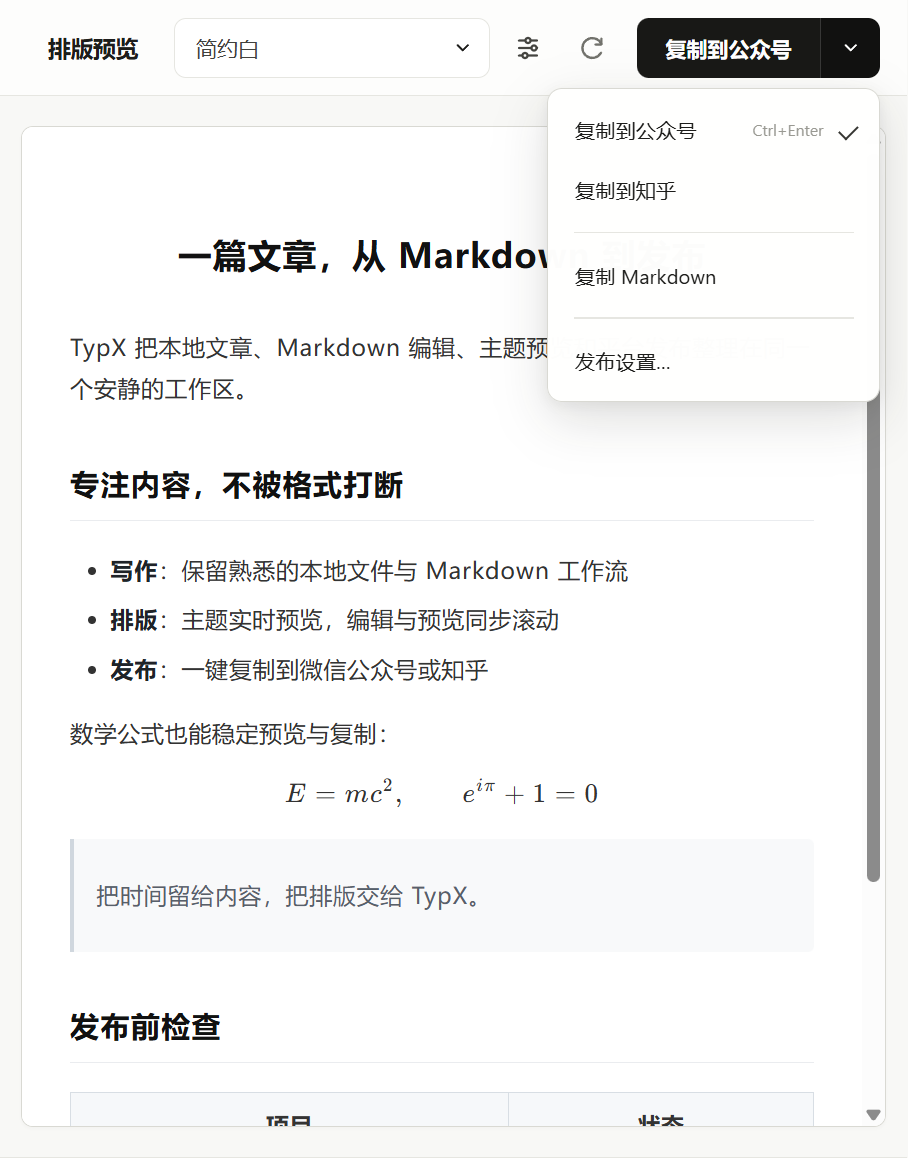
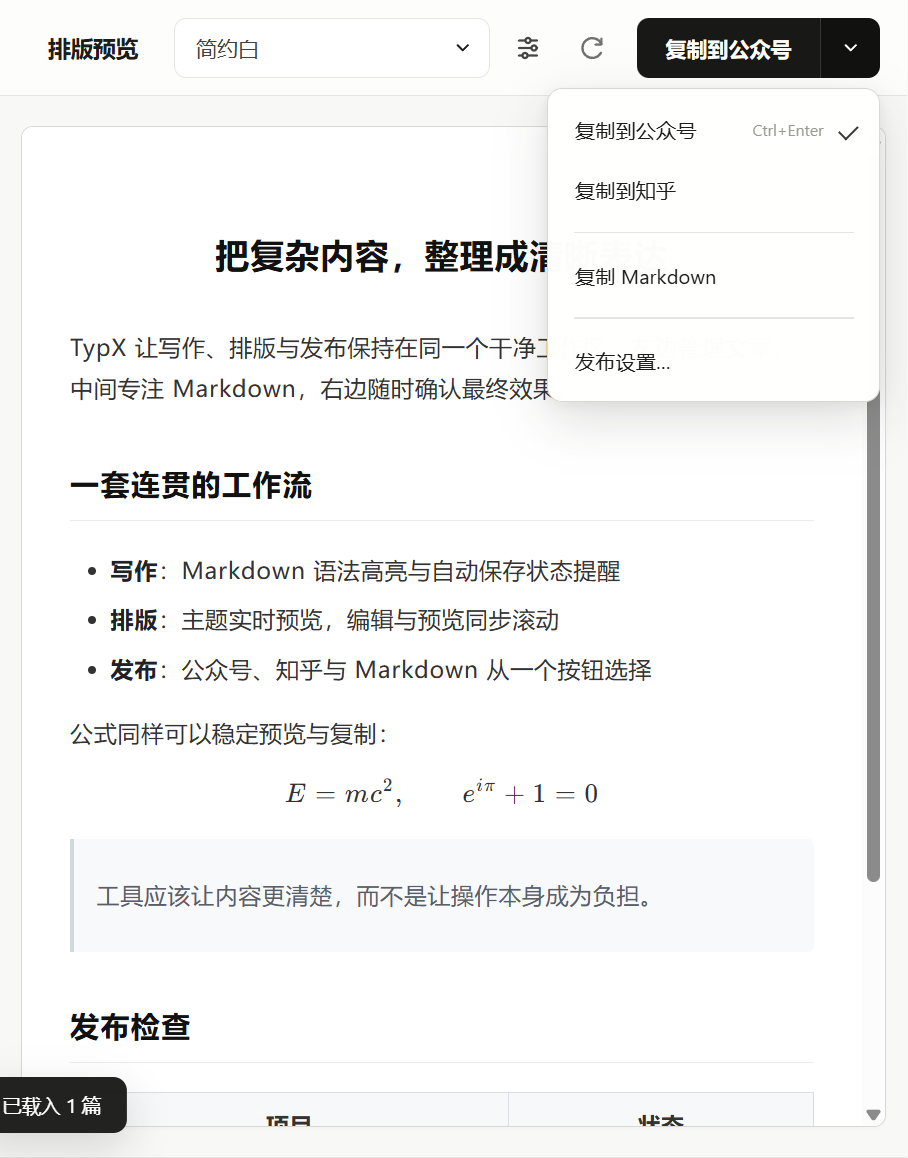
docs: 产品化 README——所见模式与主题展示图、FAQ、动态徽章

diff --git a/README.md b/README.md
@@ -5,7 +5,7 @@
 </p>
 
 <p align="center">
-  <strong>本地 Markdown 写作与微信公众号排版工具</strong><br>
+  <strong>本地优先的 Markdown 写作与公众号排版工具</strong><br>
   <strong>A local-first Markdown editor and publishing tool for WeChat writers</strong>
 </p>
 
@@ -16,19 +16,20 @@
 </p>
 
 <p align="center">
-  <a href="https://github.com/LuckyZ10/TypX/releases/download/v0.8.0/TypX-Setup-0.8.0.exe"><strong>下载 / Download TypX v0.8.0</strong></a>
-  &nbsp;·&nbsp;
-  <a href="https://github.com/LuckyZ10/TypX/releases/latest">Release Notes</a>
-  &nbsp;·&nbsp;
-  <a href="https://github.com/LuckyZ10/TypX/issues">Issues</a>
-</p>
-
-<p align="center">
-  <a href="https://github.com/LuckyZ10/TypX/releases/tag/v0.8.0"><img src="./images/badge-version.svg" alt="TypX v0.8.0"></a>
-  <img src="https://img.shields.io/badge/Windows-Installer-2563EB?style=flat-square" alt="Windows installer">
+  <a href="https://github.com/LuckyZ10/TypX/releases/latest"><img src="https://img.shields.io/github/v/release/LuckyZ10/TypX?style=flat-square&color=2563EB" alt="Latest release"></a>
+  <a href="https://github.com/LuckyZ10/TypX/releases"><img src="https://img.shields.io/github/downloads/LuckyZ10/TypX/total?style=flat-square&color=2EA043" alt="Total downloads"></a>
+  <img src="https://img.shields.io/badge/Windows-10%2F11%20x64-4D4D4D?style=flat-square" alt="Windows 10/11 x64">
   <img src="https://img.shields.io/badge/WeChat-Optimized-07C160?style=flat-square" alt="WeChat optimized">
   <img src="https://img.shields.io/badge/Zhihu-Beta-0084FF?style=flat-square" alt="Zhihu Beta">
   <img src="https://img.shields.io/badge/Nutstore-WebDAV-FF6B35?style=flat-square" alt="Nutstore WebDAV">
+</p>
+
+<p align="center">
+  <a href="https://github.com/LuckyZ10/TypX/releases/download/v0.8.0/TypX-Setup-0.8.0.exe"><strong>⬇ 下载 Windows 安装包 / Download v0.8.0</strong></a>
+  &nbsp;·&nbsp;
+  <a href="https://github.com/LuckyZ10/TypX/releases">历史版本 / Releases</a>
+  &nbsp;·&nbsp;
+  <a href="https://github.com/LuckyZ10/TypX/issues">反馈 / Issues</a>
 </p>
 
 <p align="center">
@@ -47,49 +48,81 @@ TypX 把本地文章管理、Markdown 编辑、所见即所得写作、主题预
 
 [![TypX 主界面：多项目、本地文章、Markdown 编辑和公众号排版预览](./images/overview.png)](https://github.com/LuckyZ10/TypX/releases/latest)
 
-### 核心功能
+### ✍ 所见即所得，写作不打断
 
-| 写作 | 排版 | 发布 |
-| --- | --- | --- |
-| 本地 Markdown 文件夹与多项目工作区 | 编辑、所见、分屏、预览四种视图 | 一键复制到微信公众号 |
-| 接近 Typora 的所见即所得编辑 | 主题、图片、代码、表格与 KaTeX 公式 | 知乎复制 Beta |
-| 表格行列增删、移动与单元格编辑 | 中文公式与长块公式专项优化 | 自动更新与文件路径复制 |
-
-- **所见即所得写作**：标题、粗体、列表、待办、表格和公式可直接在排版后的内容中编辑。
-- **完整表格操作**：网格插入表格，按单元格编辑，并可新增、删除或移动行列。
-- **实时公式编辑**：块公式提供 KaTeX 实时预览，适合中文技术文章和复杂公式。
-- **多项目工作区**：底部标签切换多个文件夹；关闭标签不会移除项目，项目库可随时重新打开。
-- **公众号排版优化**：专门处理中文公式、`\text{}`、相邻行内公式、列表换行、块公式间距与超长公式。
-- **本地优先**：文章保留在自己的磁盘中，也可按项目连接坚果云 WebDAV。
-- **自动更新**：安装一次后，后续版本可在 TypX 内检查、下载并完成更新。
-
-### 发布，不再反复修格式
-
-TypX 会把主题样式内联到文章内容，并针对微信公众号编辑器处理图片和公式，让预览效果尽可能稳定地带到发布页面。微信公众号复制为正式支持功能；知乎复制仍为 Beta，复杂文章发布前请先检查结果。
+标题、粗体、列表、待办、表格和公式，都可以直接在排版后的内容里编辑，接近 Typora 的手感。Markdown 始终是唯一数据源，"编辑 / 所见 / 分屏 / 预览"四种视图随时切换，不丢内容、不改文件。
 
 <p align="center">
-  <img src="./images/publish.png" width="720" alt="TypX 发布菜单与公众号排版预览">
+  <img src="./images/wysiwyg.png" width="720" alt="TypX 所见即所得编辑模式">
 </p>
 
-### 本地优先，也能连接坚果云
+### 🎨 多套排版主题，公式可靠呈现
 
-文章始终保留在自己的本地文件夹中。需要跨设备时，可按项目连接坚果云 WebDAV；首次同步采用安全合并，同名且内容不同的文件会保留冲突副本。
+内置多套为中文阅读打磨的排版主题，复制时主题样式直接内联进内容，粘贴到公众号编辑器即可保持版式。KaTeX 公式针对中文公式、`\text{}`、相邻行内公式与超长公式做了专项优化。
+
+<table align="center">
+  <tr>
+    <td width="50%" align="center"><img src="./images/theme-clean.png" alt="简约白主题"><br><sub><b>简约白</b></sub></td>
+    <td width="50%" align="center"><img src="./images/theme-ink.png" alt="墨黑主题"><br><sub><b>墨黑</b></sub></td>
+  </tr>
+  <tr>
+    <td width="50%" align="center"><img src="./images/theme-geek.png" alt="Geek 主题"><br><sub><b>Geek</b></sub></td>
+    <td width="50%" align="center"><img src="./images/theme-inkpaper.png" alt="纸墨主题"><br><sub><b>纸墨</b></sub></td>
+  </tr>
+</table>
+
+### 📋 表格，像表格一样编辑
+
+网格方式插入表格，直接在单元格内编辑；行列的新增、删除、移动都配有快捷键。表格在编辑时保持完整渲染，不会一碰就散成 Markdown 源码。
+
+### 🚀 一键复制到公众号 / 知乎
+
+TypX 会把主题样式内联到文章内容，并针对微信公众号编辑器处理图片和公式，让预览效果稳定地带到发布页面。微信公众号复制为正式支持功能；知乎复制仍为 Beta，复杂文章发布前请先检查结果。
+
+<p align="center">
+  <img src="./images/publish.png" width="720" alt="TypX 发布菜单：复制到公众号、知乎与 Markdown">
+</p>
+
+### 📁 本地优先，多项目工作区
+
+文章始终保留在自己的磁盘上，底部标签可同时打开多个项目文件夹，关闭标签不会移除项目，项目库可随时重新打开。需要跨设备时，可按项目连接坚果云 WebDAV；首次同步采用安全合并，同名且内容不同的文件会保留冲突副本。
 
 <p align="center">
   <img src="./images/nutstore.png" width="720" alt="TypX 坚果云 WebDAV 同步设置">
 </p>
 
+### 功能一览
+
+| 写作 | 排版 | 发布 |
+| --- | --- | --- |
+| 本地 Markdown 文件夹与多项目工作区 | 编辑、所见、分屏、预览四种视图 | 一键复制到微信公众号 |
+| 接近 Typora 的所见即所得编辑 | 主题、图片、代码、表格与 KaTeX 公式 | 知乎复制 Beta |
+| 表格行列增删、移动与单元格编辑 | 中文公式与长块公式专项优化 | 应用内自动更新 |
+
 ### 快速开始
 
-1. 下载 [`TypX-Setup-0.8.0.exe`](https://github.com/LuckyZ10/TypX/releases/download/v0.8.0/TypX-Setup-0.8.0.exe)。
+1. 下载 [`TypX-Setup-0.8.0.exe`](https://github.com/LuckyZ10/TypX/releases/download/v0.8.0/TypX-Setup-0.8.0.exe)（Windows 10/11，64 位）。
 2. 运行安装向导并选择安装目录。
 3. 点击底部 `+`，添加一个存放 Markdown 的文件夹。
-4. 在顶部选择“所见”直接写作，或使用“分屏”同时编辑和预览。
-5. 完成后点击“复制到公众号”，粘贴到公众号编辑器并发布。
+4. 在顶部选择"所见"直接写作，或使用"分屏"同时编辑和预览。
+5. 完成后点击"复制到公众号"，粘贴到公众号编辑器并发布。
+
+安装后无需重新下载：新版本可在应用内检查并自动更新；`Releases` 页附有 `SHA256SUMS.txt` 供校验。
+
+<details>
+<summary><b>常见问题</b></summary>
+
+- **TypX 收费吗？** 目前完全免费，写作与排版核心功能没有付费墙。
+- **文章存在哪里？** 存在你自己选择的本地文件夹里，就是普通的 Markdown 文件，随时可以用其他编辑器打开。
+- **公众号复制后格式会乱吗？** 主题样式会内联到内容里，公式转换为公众号支持的格式；发布前建议在公众号编辑器里预览确认一次。
+- **知乎支持呢？** 复制到知乎目前是 Beta，复杂文章发布前请先检查结果。
+- **如何更新？** 应用内"检查更新"，或从 Releases 下载新安装包覆盖安装，文章数据不受影响。
+
+</details>
 
 ### v0.8.0 更新亮点
 
-- 接近 Typora 的“所见”编辑模式
+- 接近 Typora 的"所见"编辑模式
 - 表格网格插入、单元格编辑及行列增删移动
 - 待办和块公式右键插入，KaTeX 块公式实时编辑
 - 统一窗口顶栏与更简洁的桌面布局
@@ -109,45 +142,77 @@ TypX combines local article management, Markdown editing, WYSIWYG writing, theme
 
 [![TypX workspace with multiple projects, Markdown editing, and publishing preview](./images/overview.png)](https://github.com/LuckyZ10/TypX/releases/latest)
 
+### ✍ WYSIWYG writing
+
+Edit headings, emphasis, lists, tasks, tables, and formulas directly in the rendered document — a Typora-inspired feel. Markdown remains the single source of truth across the Edit / WYSIWYG / Split / Preview modes.
+
+<p align="center">
+  <img src="./images/wysiwyg.png" width="720" alt="TypX WYSIWYG editing mode">
+</p>
+
+### 🎨 Themes and reliable math
+
+TypX ships several themes tuned for Chinese reading. Theme styles are inlined on copy so the layout survives the WeChat editor. KaTeX formulas get special handling for Chinese text, `\text{}`, adjacent inline math, and long display equations.
+
+<table align="center">
+  <tr>
+    <td width="50%" align="center"><img src="./images/theme-clean.png" alt="Clean theme"><br><sub><b>Clean</b></sub></td>
+    <td width="50%" align="center"><img src="./images/theme-ink.png" alt="Ink theme"><br><sub><b>Ink</b></sub></td>
+  </tr>
+  <tr>
+    <td width="50%" align="center"><img src="./images/theme-geek.png" alt="Geek theme"><br><sub><b>Geek</b></sub></td>
+    <td width="50%" align="center"><img src="./images/theme-inkpaper.png" alt="Ink Paper theme"><br><sub><b>Ink Paper</b></sub></td>
+  </tr>
+</table>
+
+### 📋 Tables that behave like tables
+
+Insert tables from a grid and edit cells directly. Adding, removing, and moving rows or columns all have shortcuts, and tables stay rendered while you edit instead of collapsing into source.
+
+### 🚀 One-click copy to WeChat / Zhihu
+
+TypX inlines theme styles and adapts images and formulas for the WeChat editor so that the published result stays close to the preview. WeChat publishing is fully supported. Zhihu publishing remains in Beta; please review complex articles before publishing.
+
+<p align="center">
+  <img src="./images/publish.png" width="720" alt="TypX publishing menu: WeChat, Zhihu, and Markdown">
+</p>
+
+### 📁 Local-first, with optional Nutstore sync
+
+Your articles stay in local folders you control. Open multiple project folders as bottom tabs; closing a tab keeps the project in the library. For cross-device workflows, connect a project through Nutstore WebDAV — the first sync merges safely and preserves conflict copies.
+
+<p align="center">
+  <img src="./images/nutstore.png" width="720" alt="TypX Nutstore WebDAV settings">
+</p>
+
 ### Highlights
 
 | Writing | Formatting | Publishing |
 | --- | --- | --- |
 | Local Markdown folders and multi-project tabs | Edit, WYSIWYG, split, and preview modes | One-click copy for WeChat Official Accounts |
 | Typora-inspired WYSIWYG editing | Themes, images, code, tables, and KaTeX | Zhihu copy pipeline in Beta |
-| Full table row and column operations | Optimized Chinese and long equations | In-app updates and path copying |
-
-- **WYSIWYG editing** — Edit headings, emphasis, lists, tasks, tables, and formulas directly in the rendered document.
-- **Complete table tools** — Insert tables from a grid, edit individual cells, and add, remove, or move rows and columns.
-- **Live math editing** — Block formulas include real-time KaTeX preview for technical writing and complex equations.
-- **Multi-project workspace** — Switch folders from bottom tabs. Closing a tab keeps the project available in the persistent project library.
-- **WeChat-ready formatting** — Special handling for Chinese formulas, `\text{}`, adjacent inline math, list wrapping, equation spacing, and long display equations.
-- **Local-first storage** — Files remain on your disk. Nutstore WebDAV can be enabled per project when cross-device sync is needed.
-- **In-app updates** — After the initial installation, future releases can be checked, downloaded, and installed from inside TypX.
-
-### Reliable WeChat publishing
-
-TypX inlines theme styles and adapts images and formulas for the WeChat editor so that the published result stays close to the preview. WeChat publishing is fully supported. Zhihu publishing remains in Beta; please review complex articles before publishing.
-
-<p align="center">
-  <img src="./images/publish.png" width="720" alt="TypX publishing menu and WeChat preview">
-</p>
-
-### Local-first, with optional Nutstore sync
-
-Your articles stay in local folders you control. For cross-device workflows, connect a project through Nutstore WebDAV. The first sync uses safe merging and preserves conflict copies when files with the same name differ.
-
-<p align="center">
-  <img src="./images/nutstore.png" width="720" alt="TypX Nutstore WebDAV settings">
-</p>
+| Full table row and column operations | Optimized Chinese and long equations | In-app updates |
 
 ### Quick start
 
-1. Download [`TypX-Setup-0.8.0.exe`](https://github.com/LuckyZ10/TypX/releases/download/v0.8.0/TypX-Setup-0.8.0.exe).
+1. Download [`TypX-Setup-0.8.0.exe`](https://github.com/LuckyZ10/TypX/releases/download/v0.8.0/TypX-Setup-0.8.0.exe) (Windows 10/11, 64-bit).
 2. Run the installer and choose an installation directory.
 3. Click `+` in the bottom bar and add a folder containing Markdown files.
 4. Choose **WYSIWYG** for direct editing, or **Split** to edit and preview side by side.
 5. Click **Copy to WeChat**, paste into the WeChat editor, review, and publish.
+
+After installation there is no need to re-download: new versions can be checked and installed from inside TypX. `SHA256SUMS.txt` is attached to each release for verification.
+
+<details>
+<summary><b>FAQ</b></summary>
+
+- **Is TypX free?** Yes, currently completely free — no paywall on core writing and formatting features.
+- **Where are my articles stored?** In local folders you choose, as plain Markdown files that any editor can open.
+- **Will WeChat formatting break?** Theme styles are inlined and formulas are converted to WeChat-compatible output; always do a quick preview in the WeChat editor before publishing.
+- **What about Zhihu?** Copying to Zhihu is in Beta — review complex articles before publishing.
+- **How do I update?** Use "Check for updates" in the app, or download the new installer from Releases. Your articles are not affected.
+
+</details>
 
 ### What's new in v0.8.0
 
